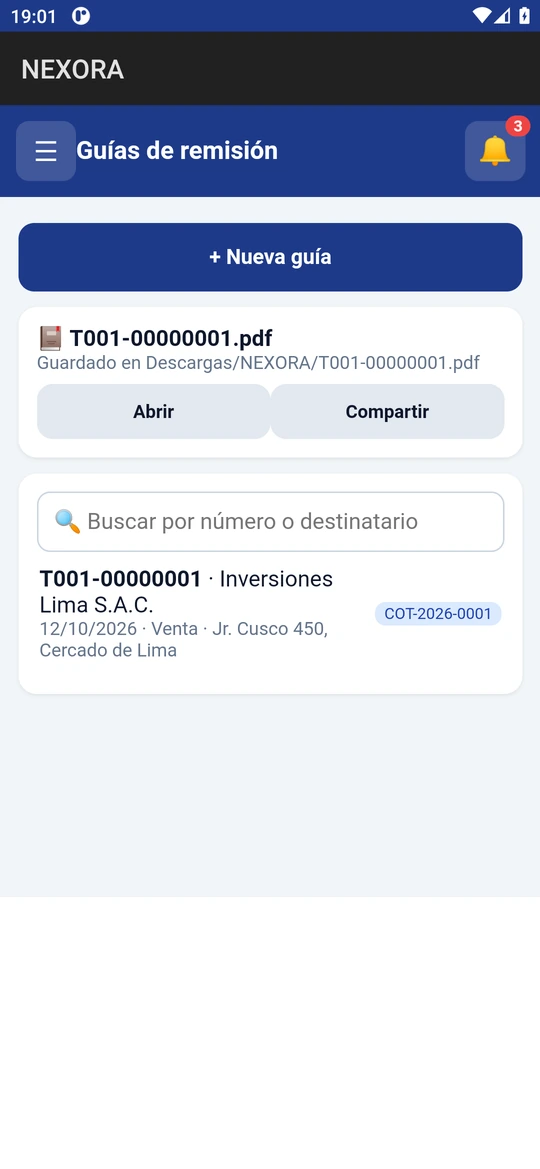
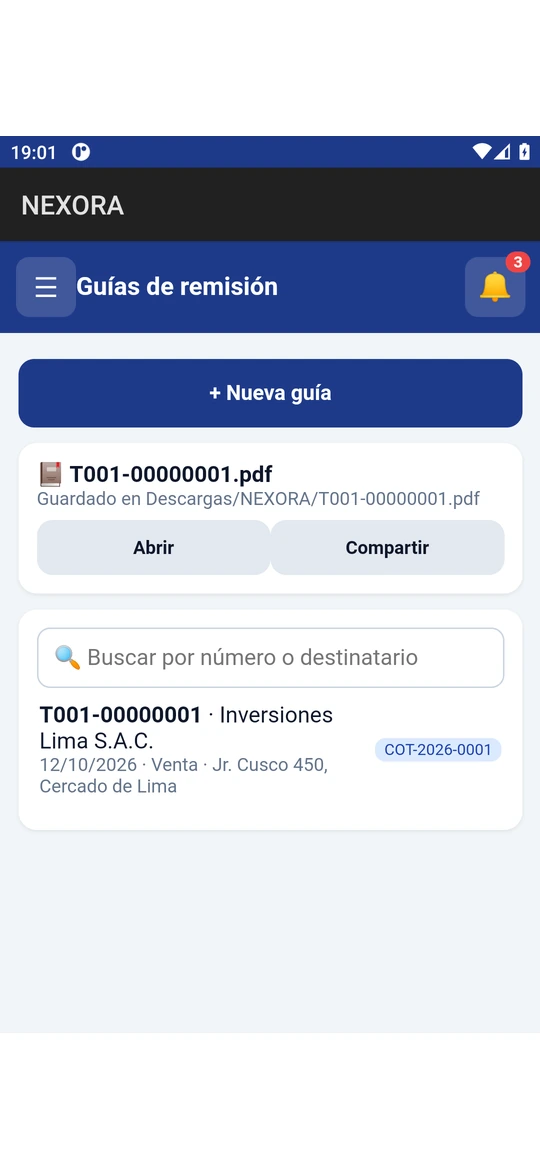
Scale NEXORA screenshots to fit phone frame (no zoom)
Contain each capture inside the standard 540×1169 bezel and cache-bust URLs so the UI reads at real size.

diff --git a/index.html b/index.html
@@ -22,7 +22,7 @@
   <p class="lead">PROCESA, NEXORA y CortoStudio: apps Android en español para llevar tu planta, tu negocio y tus ideas un paso más allá.</p>
   <p class="cta"><a class="btn" href="#apps">Ver las apps</a><a class="more" href="#contacto">Escríbenos</a></p>
   <div class="stage">
-    <figure class="phone back"><img src="assets/img/nexora-cotizacion.webp" width="540" height="1169" alt="NEXORA: lista de cotizaciones"></figure>
+    <figure class="phone back"><img src="assets/img/nexora-cotizacion.webp?v=3" width="540" height="1169" alt="NEXORA: lista de cotizaciones"></figure>
     <figure class="phone front"><img src="assets/img/procesa-diagrama.webp" width="540" height="1169" alt="PROCESA: diagrama de flujo HACCP de una mermelada, con sus puntos críticos de control" fetchpriority="high"></figure>
     <figure class="phone far"><img src="assets/img/corto-inicio.webp" width="540" height="1169" alt="CortoStudio: editar un cortometraje, con título, género y estilo visual"></figure>
   </div>
@@ -60,9 +60,9 @@
     <p class="meta">App para Android</p>
   </div>
   <div class="show rev">
-    <div class="shot"><figure class="phone "><img src="assets/img/nexora-cotizacion.webp" width="540" height="1169" alt="NEXORA: lista de cotizaciones" loading="lazy"></figure></div>
+    <div class="shot"><figure class="phone "><img src="assets/img/nexora-cotizacion.webp?v=3" width="540" height="1169" alt="NEXORA: lista de cotizaciones" loading="lazy"></figure></div>
     <div class="list">
-      <ul class="feats" aria-label="Funciones de NEXORA: toca una marcada para ver su pantalla"><li><button type="button" class="feat" data-shot="assets/img/nexora-cotizacion.webp" data-alt="NEXORA: lista de cotizaciones" aria-pressed="true">Cotizaciones en PDF</button></li><li><span class="feat-plain">Facturas y boletas, con facturación electrónica SUNAT</span></li><li><button type="button" class="feat" data-shot="assets/img/nexora-guia.webp" data-alt="NEXORA: guía de remisión" aria-pressed="false">Guías de remisión</button></li><li><button type="button" class="feat" data-shot="assets/img/nexora-cxc.webp" data-alt="NEXORA: cuentas por cobrar de clientes" aria-pressed="false">Clientes y cuentas por cobrar</button></li><li><span class="feat-plain">Inventario con kardex</span></li><li><button type="button" class="feat" data-shot="assets/img/nexora-saldos.webp" data-alt="NEXORA: caja y saldos por cuenta bancaria" aria-pressed="false">Caja y cuentas bancarias</button></li><li><span class="feat-plain">Pagos recibidos por Yape y Plin</span></li><li><span class="feat-plain">Reportes mensuales en PDF y Excel, e impresión Bluetooth</span></li></ul>
+      <ul class="feats" aria-label="Funciones de NEXORA: toca una marcada para ver su pantalla"><li><button type="button" class="feat" data-shot="assets/img/nexora-cotizacion.webp?v=3" data-alt="NEXORA: lista de cotizaciones" aria-pressed="true">Cotizaciones en PDF</button></li><li><span class="feat-plain">Facturas y boletas, con facturación electrónica SUNAT</span></li><li><button type="button" class="feat" data-shot="assets/img/nexora-guia.webp?v=3" data-alt="NEXORA: guía de remisión" aria-pressed="false">Guías de remisión</button></li><li><button type="button" class="feat" data-shot="assets/img/nexora-cxc.webp?v=3" data-alt="NEXORA: cuentas por cobrar de clientes" aria-pressed="false">Clientes y cuentas por cobrar</button></li><li><span class="feat-plain">Inventario con kardex</span></li><li><button type="button" class="feat" data-shot="assets/img/nexora-saldos.webp?v=3" data-alt="NEXORA: caja y saldos por cuenta bancaria" aria-pressed="false">Caja y cuentas bancarias</button></li><li><span class="feat-plain">Pagos recibidos por Yape y Plin</span></li><li><span class="feat-plain">Reportes mensuales en PDF y Excel, e impresión Bluetooth</span></li></ul>
       <p class="note">Las capturas muestran datos de ejemplo. <a href="privacidad-nexora.html">Política de privacidad de NEXORA</a></p>
     </div>
   </div>
